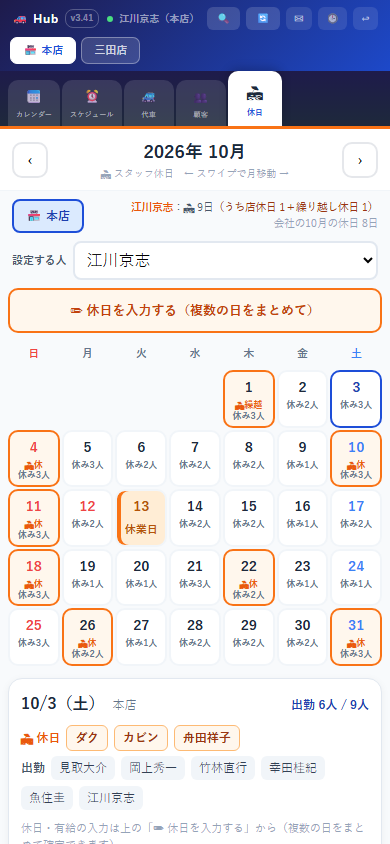
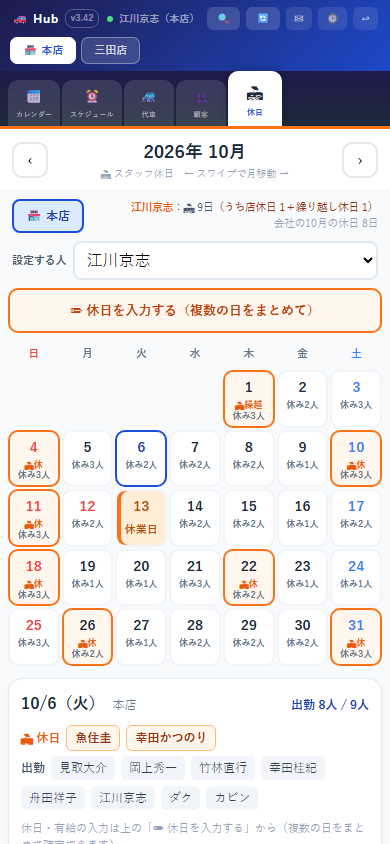
CLAUDE.md：2026-10-06 の3件（幽霊の行・スタッフ名の変更・納車チェック）を記録

diff --git a/CLAUDE.md b/CLAUDE.md
@@ -9,7 +9,7 @@ This file provides guidance to Claude Code (claude.ai/code) when working with co
 ## ビルド・テスト・実行
 
 - **ビルド/lint は存在しない。** 静的HTMLをGitHub Pagesが直接配信する。
-- **検査は Playwright の `*_test.js`**（`%LOCALAPPDATA%/Temp/hub-verify/node_modules` の playwright を使う）。Firebase には繋がず `fake_firebase.js`（にせの firebase）を差し込む：`node fb_auth_test.js`（本人認証）・`node fb_mode_test.js`（Firestore 経路）・`node fb_holiday_test.js`（休日タブ・休日メモ・繰り越し）・`node fb_mysched_test.js`（マイスケジュール・シークレット暗号化）・`node fb_contact_test.js`（住所・電話）・`node cust_delete_test.js`（顧客ファイルの削除）・`node staff_input_test.js`（予約カードの担当欄）・`node vehicle_loaner_test.js`（車両管理→代車管理の登録）・`node shaken_qr_test.js`（スマホの「🛠 機能」→車検証QR→車両管理）・`node qr_small_scan_test.js`（小さいQR・文字コード。CDNに実接続）・`node merge_scalar_test.js`（共有データのマージ）・`node loaner_edit_overflow_test.js`（代車の編集画面が履歴で埋まらない）・`node stale_snapshot_test.js`（古い写しで表示が消えない）・`node diff_write_test.js`（保存が他の予定を巻き添えにしない）・`node mobile_cust_test.js`（スマホの検索・顧客リスト・リストからの予約）・`node mobile_move_test.js`（スマホ：整備の日時変更・代車ボタン3つ・＋追加の置き場所）・`node mobile_store_test.js`（スマホ：店舗切替・入庫店舗）・`node pc_card_store_test.js`（PC：入庫店舗）・`node sched_scroll_test.js`（タイムスケジュールの自動追従スクロール）・`node delivery_dup_test.js`（納車の派生行から開いた予約が二重にならない）・`node rental_period_test.js`（レンタカーの期間ズレを知らせる）・`node delivery_note2_test.js`（納車メモ・代車の長期ドラッグ）・`node search_same_test.js`（PCとスマホの検索結果が同じ数）・`node restriction_multi_test.js`（入庫制限の複数時間帯）・`node memo_tip_test.js`（制限ポップアップのチラつき・スマホの備考編集）・`node insp_move_test.js`（車検の日にち変更）・`node insp_double_test.js`（二重予約にならない）・`node carno_test.js`（ナンバー4桁）・`node cust_open_mode_test.js`（顧客リストを同じタブで開き画面の大きさを揃える）・`node batch_poll_test.js` ほか（GAS 模擬・`BACKEND='gas'` に固定して動かす）。構文だけなら `node smoke_dev_check.js <file>`。
+- **検査は Playwright の `*_test.js`**（`%LOCALAPPDATA%/Temp/hub-verify/node_modules` の playwright を使う）。Firebase には繋がず `fake_firebase.js`（にせの firebase）を差し込む：`node fb_auth_test.js`（本人認証）・`node fb_mode_test.js`（Firestore 経路）・`node fb_holiday_test.js`（休日タブ・休日メモ・繰り越し）・`node fb_mysched_test.js`（マイスケジュール・シークレット暗号化）・`node fb_contact_test.js`（住所・電話）・`node cust_delete_test.js`（顧客ファイルの削除）・`node staff_input_test.js`（予約カードの担当欄）・`node vehicle_loaner_test.js`（車両管理→代車管理の登録）・`node shaken_qr_test.js`（スマホの「🛠 機能」→車検証QR→車両管理）・`node qr_small_scan_test.js`（小さいQR・文字コード。CDNに実接続）・`node merge_scalar_test.js`（共有データのマージ）・`node bugfix_1006_test.js`（幽霊の行・スタッフ名の変更・納車チェック）・`node loaner_edit_overflow_test.js`（代車の編集画面が履歴で埋まらない）・`node stale_snapshot_test.js`（古い写しで表示が消えない）・`node diff_write_test.js`（保存が他の予定を巻き添えにしない）・`node mobile_cust_test.js`（スマホの検索・顧客リスト・リストからの予約）・`node mobile_move_test.js`（スマホ：整備の日時変更・代車ボタン3つ・＋追加の置き場所）・`node mobile_store_test.js`（スマホ：店舗切替・入庫店舗）・`node pc_card_store_test.js`（PC：入庫店舗）・`node sched_scroll_test.js`（タイムスケジュールの自動追従スクロール）・`node delivery_dup_test.js`（納車の派生行から開いた予約が二重にならない）・`node rental_period_test.js`（レンタカーの期間ズレを知らせる）・`node delivery_note2_test.js`（納車メモ・代車の長期ドラッグ）・`node search_same_test.js`（PCとスマホの検索結果が同じ数）・`node restriction_multi_test.js`（入庫制限の複数時間帯）・`node memo_tip_test.js`（制限ポップアップのチラつき・スマホの備考編集）・`node insp_move_test.js`（車検の日にち変更）・`node insp_double_test.js`（二重予約にならない）・`node carno_test.js`（ナンバー4桁）・`node cust_open_mode_test.js`（顧客リストを同じタブで開き画面の大きさを揃える）・`node batch_poll_test.js` ほか（GAS 模擬・`BACKEND='gas'` に固定して動かす）。構文だけなら `node smoke_dev_check.js <file>`。
 - 動作確認はブラウザでHTMLを開く（PWA。**Service Workerは使っていない**ので、ブラウザの通常キャッシュだけ。念のため確認時は**強制リロード Ctrl+Shift+R**）。
 - デプロイ = `git push`。GitHub Pages反映に1〜3分。
 - Babelのin-browser変換のため、構文エラーは実行時まで出ない（上の検査で拾う）。
@@ -149,6 +149,33 @@ This file provides guidance to Claude Code (claude.ai/code) when working with co
     （コードの全文をそのまま見せる＝**並びを実物に合わせるための唯一の手がかり**。ユーザーに送ってもらうこと）
   ⑦ **電子車検証（2023年1月〜のICチップ付きA6）はQRが1つだけ**で中身も違う。紙のA4（QR3つ）と見分けること
 - **本番にはまだ入れていない**（テスト版のみ）。
+
+### 2026-10-06 の現場報告3件（v3.54 / 本番 v3.42）
+- **① 他の人が動かした予定の「前の時間」が、見ているPCにだけ残る（幽霊の行）**
+  報告：10/6 三田店 小西さんが 11時→13時。本店PCで三田店を見ると11時と13時の2つ。三田店PCとスマホは13時のみ。
+  **サーバーには13時しか無かった＝画面だけの幽霊。**
+  原因は `mergeSharedObjects`：サーバーに無い枠を「記録の時刻が3分以内なら残す」決まりで、**誰が作ったかを見ていなかった**。
+  他店が11時に作って48秒後に13時へ動かすと、見ているPCは消えた11時を**毎回作り直す**。一度手元に戻るとリロードまで消えない。
+  → **サーバーに無い枠を残すのは「自分がさっき書いた分」だけ**にした（`shMineMark` / `shMineHas`。パスは `cidday`、有効は SHARED_FRESH_MS）。
+  **`mergeSharedObjects` を呼ぶ所は必ず第4引数にキーを渡すこと**（渡さないと自分の書き込みが分からず、作りたての代車予約が消える）。
+  `persistLoaner` は `useShared.update` を通らないので、**その場で `shMineMark` を呼んでいる**（2026-08-26「代車が消える」の守りを壊さないため）。
+  ※Kyoshi承認のBLOCK-B変更。検査は `node bugfix_1006_test.js` と `node merge_scalar_test.js`。
+- **② スタッフ名を変えると、休日がカレンダーには出てスケジュールには出ない**
+  報告：10/6 幸田さんが休みなのにスケジュールに出ない。
+  本番データ：本店の休日に **「幸田かつのり」が40日ぶん**、名簿は「幸田桂紀」。**休日は氏名で持っているのに、名簿の名前を変えても休日データを直していなかった。**
+  カレンダーは休日の名前をそのまま出す＝見える／スケジュールは `currentStaffList.filter(s=>offs.includes(s.name))` で絞る＝**黙って消える**。
+  → ⓐ 名前を変えたら `renameStaffInOff` で **dayoff・pleave・offnote も一緒に直す**
+    ⓑ スケジュールのスタッフ帯は **名簿に無い名前も必ず出す**（⚠ 付き・オレンジのバッジ）。**名簿で絞り込んで消さないこと。**
+  既存データの修復：`node fb_fix_staff_names.js`（下見）／`--write`（実行。`--dev` でテスト版）。
+  **頭から2文字以上そろう人が1人だけの時にかぎって置き換える**（同姓が2人いる／見つからない時は触らない）。控えは Hub重要書類 へ自動保存。
+  2026-10-06 に本番で5件修復（幸田かつのり→幸田桂紀40日／河合→河合よっちゃん／芦田→芦田昌則／長谷川→長谷川昌彦／石井→石井光）。**「宮原」1件は相手が見つからないので残してある**（退職者とみられる）。
+- **③ 入庫のチェックが納車日の行にも出る**
+  報告：「入庫後に納車日を設定した顧客でチェックを入れ、納車日を見ると納車が終わっていないのにチェックが入る。納車日はチェックが外れる仕組みに」
+  納車の派生行が入庫済み（`arrived`）をそのまま使っていた。→ **納車は `delivered` という別の印**にした（`toggleInspDelivered`/`toggleSchedDelivered`、覚え書きのキーは `…|D`）。
+  **事前入庫の行は今までどおり `arrived`**（その日に車が入るので入庫の印でよい）。スマホには納車の派生行が無いので変更なし。
+- **本番への出し方（2026-10-06 Kyoshi判断）**：本番は v3.41 のままで新機能（車両管理v2・車検証QR・文字読み取り）を出さないため、
+  `port_to_main.js` は使わず **この3件の直しだけを index_main.html に当てた**（本番 v3.42）。テスト版にも同じ直しが入っているので、次に port_to_main.js を使っても食い違わない。
+  本番へ出す前に `node smoke_main.js` PASS を確認済み。
 
 ### 小さいQR・文字コード（v3.53・2026-10-05・ユーザー指摘から）
 - ユーザー指摘「**自動車検査証記録事項の下部にあるQRは車両情報ではないですか？**」→ そのとおり。記録事項にもQRがあり、**OCRより確実**。
